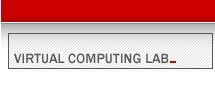
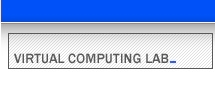
removed NCSU stuff and added ASF stuff
git-svn-id: https://svn.apache.org/repos/asf/incubator/vcl/trunk@766848 13f79535-47bb-0310-9956-ffa450edef68

Changed region(s): [[0.0, 0.0, 1.0, 0.24], [0.7814, 0.6, 0.8372, 0.66]]

diff --git a/web/themes/default/css/vcl.css b/web/themes/default/css/vcl.css
@@ -186,7 +186,7 @@ form {
 
 #menulist ul li a:hover, a:active {
 	text-decoration: none;
-	color: #B90000;
+	color: #0051f8;
 }
 
 #menulist ul li.selected {
@@ -284,7 +284,7 @@ form {
 	background: transparent;	
 	width: 750px;
 	margin: 0 8px 0 8px;
-	padding: 0 0 20px 0;
+	padding: 0;
 }
 
 #footer-top {
@@ -295,48 +295,6 @@ form {
 }
 
 #footer-top span {display: none}
-
-#footer-padding {
-	clear: left;
-	background: transparent;
-	width: 724px;
-	height: 10px;
-	margin: 0;
-	padding: 0;
-}
-
-#footer-box-left {
-	float: left;
-	background: #F2F2F2;
-	width: 350px;
-	margin: 8px 1px 1px 1px;
-	padding: 5px;
-	border: #595959 1px solid;
-	color: black;
-	font: 9px helvetica, arial, sans;
-}
-
-#footer-box-left p {
-	margin: 0;
-	padding: 0;
-}
-
-#footer-box-left p a:link {
-	text-decoration: none;
-	color: black;
-}
-
-#footer-box-left p a:visited {
-	text-decoration: none;	
-	color: #595959;
-}
-
-#footer-box-left p a:hover, a:active {
-	background: #CCCCCC;	
-	text-decoration: none;
-	color: black;
-}
-
 
 #footer-box-right {
 	display: block;

diff --git a/web/themes/default/page.php b/web/themes/default/page.php
@@ -109,22 +109,11 @@ function getFooter() {
 	$rt .= "      </TR>\n";
 	$rt .= "    </table>\n";
 	$rt .= "<div id=\"footer\">\n";
-	$rt .= "<div id=\"footer-top\">\n";
-	$rt .= "<span>This support page is for students, faculty, and staff of North Carolina State University</span>\n";
-	$rt .= "</div>\n";
-	$rt .= "<div id=\"footer-box-left\">\n";
-	$rt .= "<p>\n";
-	$rt .= "North Carolina State University, Raleigh, NC<br/>\n";
-	$rt .= "<a href=\"http://vcl.ncsu.edu/\">vcl.ncsu.edu</a> | \n";
-	$rt .= "Comments to <a href=\"mailto:vcl_help@ncsu.edu\" accesskey=9>vcl_help@ncsu.edu</a>\n";
-	$rt .= "</p>\n";
-	$rt .= "</div>\n";
 	$rt .= "<div id=\"footer-box-right\">\n";
 	$rt .= "<p>\n";
-	$rt .= "Copyright &#169; 2004-$year by NC State University and others, All Rights Reserved.\n";
+	$rt .= "Copyright &#169; 2004-$year by Apache Software Foundation, All Rights Reserved.\n";
 	$rt .= "</p>\n";
 	$rt .= "</div>\n";
-	$rt .= "<div id=\"footer-padding\"><span></span></div>\n";
 	$rt .= "</div>\n";
 	$rt .= "<!-- end footer -->\n";
 	$rt .= "</TD>\n";
